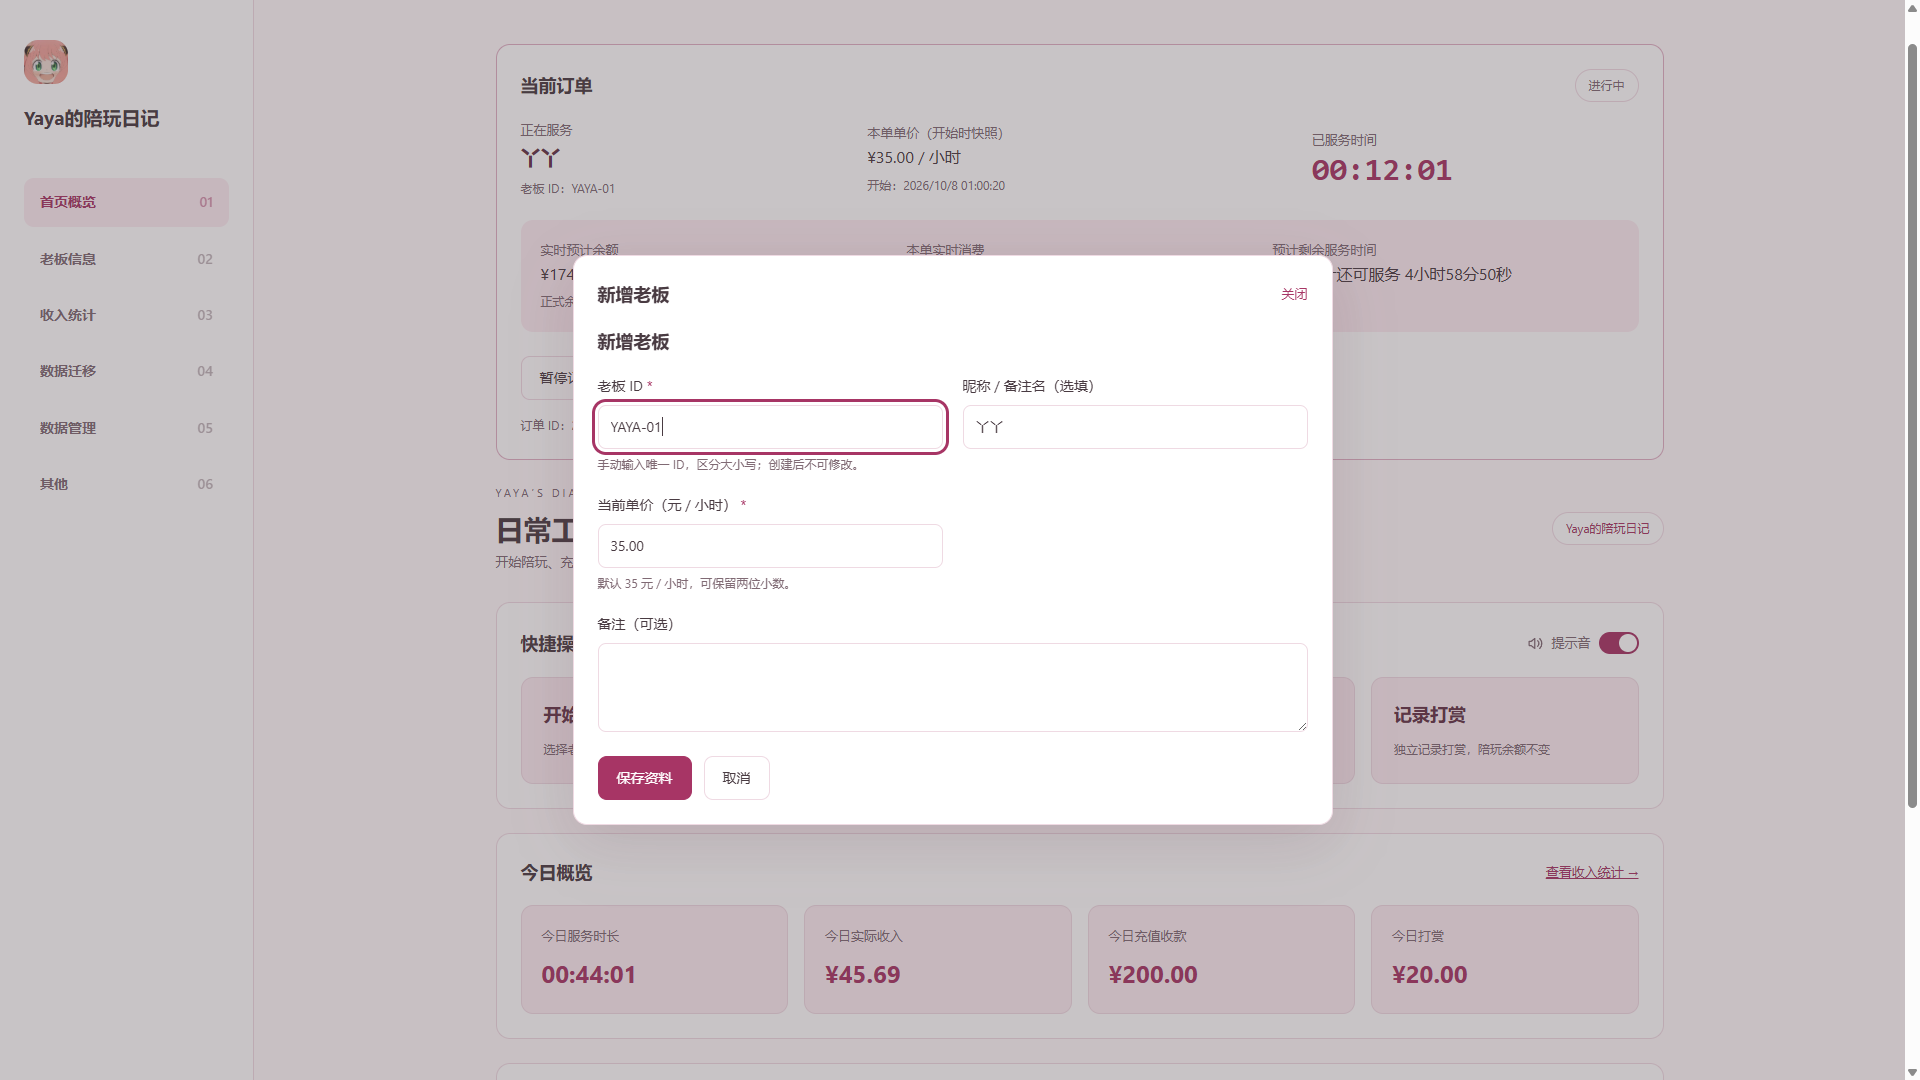
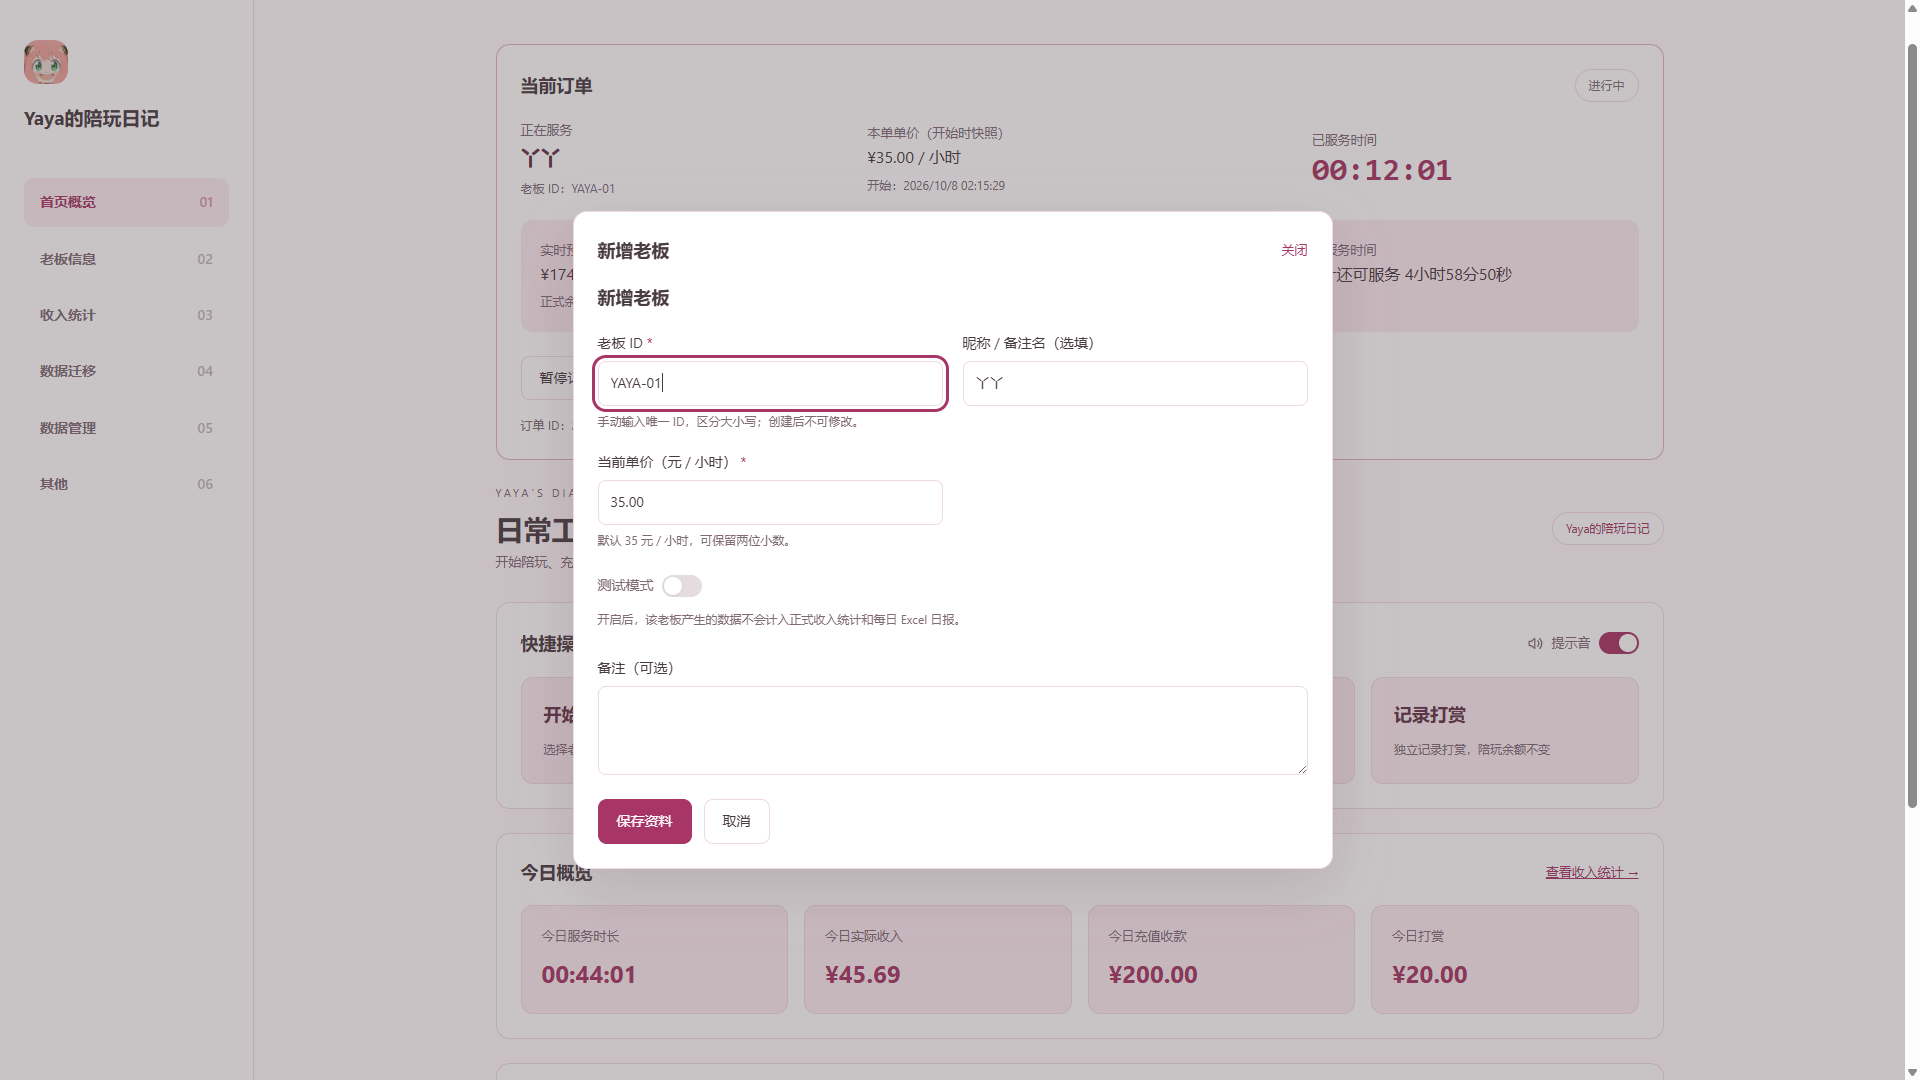
chore: release v1.2.1

diff --git a/src/components/layout/AppLayout.tsx b/src/components/layout/AppLayout.tsx
@@ -13,7 +13,7 @@ export function AppLayout({ children, page }: { children: ReactNode; page: strin
           <a className="nav-link" href="#data" aria-current={page === 'data' ? 'page' : undefined}>数据管理 <span>05</span></a>
           <a className="nav-link" href="#other" aria-current={page === 'other' ? 'page' : undefined}>其他 <span>06</span></a>
         </nav>
-        <div className="sidebar-note">本地单用户应用<br />陪玩日记 · 1.2.0</div>
+        <div className="sidebar-note">本地单用户应用<br />陪玩日记 · 1.2.1</div>
       </aside>
       <main id={page} className="main-content">{children}</main>
     </div>

diff --git a/website/src/config.js b/website/src/config.js
@@ -1,6 +1,6 @@
 import { defaultRepository, githubDeployment } from '../deployment.js'
 // 网站展示与下载版本集中配置；不会修改 Electron 应用版本。
-const version = '1.2.0'
+const version = '1.2.1'
 const repository = import.meta.env.VITE_GITHUB_REPOSITORY || (import.meta.env.PROD ? defaultRepository : '')
 const release = githubDeployment(repository, version)
 // GitHub Pages 构建使用 Release；本地未指定仓库时保留原本下载。

diff --git a/README.md b/README.md
@@ -1,6 +1,6 @@
 # Yaya的陪玩日记
 
-## 当前发布版本：1.2.0
+## 当前发布版本：1.2.1
 
 日常使用和开发验证的推荐运行方式：
 
@@ -10,16 +10,19 @@ pnpm electron:local:formal
 
 该命令构建本地页面并通过现有 Electron 运行环境启动 SQLite 正式模式，不需要 Vite localhost。正式数据库位于 `%APPDATA%\Yaya-companion-manager\sqlite\yaya-companion.db`，独立于源码和程序目录。数据库、依赖、构建产物和发布包不属于 Git 备份；请在“数据管理”中单独备份账目。
 
-当前安装包及 Portable 未签名 EXE 可能被 Windows 11 Smart App Control / Code Integrity 阻止。当前阶段暂停安装逻辑、Portable 发布、安全策略与代码签名工作，以源码开发运行方式为主。下文相关发布与失败验收说明为历史记录。
+当前安装包及 Portable 未签名 EXE 可能被 Windows 11 Smart App Control / Code Integrity 阻止。本版本提供 Portable ZIP，同时保留源码开发运行方式；暂不处理安装逻辑、安全策略和代码签名。下文相关发布与失败验收说明为历史记录。
 
 完整检查：`pnpm test`、`pnpm lint`、`pnpm build`、`pnpm electron:test`。Electron 集成检查使用隔离测试数据库验证正式模式、备份恢复和刷新持久化，不操作正式业务数据。只读检查正式库可运行 `node scripts/check-formal-database.mjs`；该脚本不创建、迁移或修改数据库。
 
-后续开发以 `v1.2.0` 为基线；此前的 `v1.1.2-stable` 保留作为历史基线。本轮只整理版本与文档，不重新生成 Squirrel 安装包或 Portable。
+后续开发以 `v1.2.1` 为基线；此前的 `v1.1.2-stable` 保留作为历史基线。本次重新生成 v1.2.1 Portable，不生成 Squirrel 安装包。
 
-React + TypeScript + Vite 本地单用户 Windows 应用，支持浏览器与 Electron 桌面运行，当前版本 1.2.0。
-已完成老板资料、余额充值/调整、只读余额流水、订单生命周期、计时、结束订单一次性结算、打赏和今日/本周/本月统计。开发时保留三种独立数据源；Windows 安装版默认使用 SQLite 正式库，首次启动创建空库。已有旧资料需要自行导出并在“数据迁移”校验后导入，原资料不会被删除。以下阶段记录属于历史资料；当前计费遵循 1.1.0 的结束时一次性结算规则，提示音和历史展示以本页 1.2.0 说明为准。
+React + TypeScript + Vite 本地单用户 Windows 应用，支持浏览器与 Electron 桌面运行，当前版本 1.2.1。
+已完成老板资料、余额充值/调整、只读余额流水、订单生命周期、计时、结束订单一次性结算、打赏和今日/本周/本月统计。开发时保留三种独立数据源；Windows 安装版默认使用 SQLite 正式库，首次启动创建空库。已有旧资料需要自行导出并在“数据迁移”校验后导入，原资料不会被删除。以下阶段记录属于历史资料；当前计费遵循 1.1.0 的结束时一次性结算规则，提示音和历史展示以本页 1.2.1 说明为准。
 
-### v1.2.0 主要变化
+### v1.2.1 主要变化
+
+- 新增测试模式：完整体验业务，数据排除正式统计和 Excel；产生业务记录后锁定模式。旧资料升级默认正式模式，数据库 schema 5。
+- “其他”页面提供两次确认清空测试数据，以及三次确认 Portable 应用内卸载。卸载最终确认会删除程序与本机资料，请先备份。
 
 - 余额预计剩余时间首次进入5分钟以内时播放本地语音；预计余额归零时播放另一段语音。暂停不触发，刷新或重启不补播历史提醒，充值恢复后可再次提醒。
 - 首页“快捷操作”右上角提供提示音总开关，设置持久化；静音仍保留文字提示，计时和结算不受影响。
@@ -38,7 +41,7 @@ React + TypeScript + Vite 本地单用户 Windows 应用，支持浏览器与 El
 
 自动备份目录独立保存 `auto-backup-state.json`；日报文件名为 `YayaDiary-YYYY-MM-DD.xlsx`。可在“数据管理”备份、恢复或打开导出目录。安装包与 Portable 仍可能被 Windows Smart App Control / Code Integrity 阻止，暂未处理代码签名，不降低 Windows 安全策略。
 
-v1.2.0 最终检查：159项自动测试、lint、build，以及 Electron 隔离集成检查；测试不使用正式用户数据库。
+v1.2.1 最终检查：187项自动测试、lint、build，以及 Electron 隔离集成检查；测试不使用正式用户数据库。
 
 ## 启动与检查
 

diff --git a/website/README.md b/website/README.md
@@ -50,14 +50,14 @@ workflow 路径：.github/workflows/website-pages.yml。仅在默认分支的 we
 
 ## Release asset 下载
 
-本阶段没有上传任何 ZIP。必须先确保 GitHub 已存在 v1.2.0 tag，再在 Releases → Draft a new release 中选择现有 v1.2.0 tag，不要移动或重建 tag。
+本阶段没有上传任何 ZIP。必须先确保 GitHub 已存在 v1.2.1 tag，再在 Releases → Draft a new release 中选择现有 v1.2.1 tag，不要移动或重建 tag。
 
-将经过验收的 YayaDiary-1.2.0-Portable.zip 作为 asset 手动上传，再 Publish release。文件应保持该名称，大小与 SHA256 建议再次核对。
+将经过验收的 YayaDiary-1.2.1-Portable.zip 作为 asset 手动上传，再 Publish release。文件应保持该名称，大小与 SHA256 建议再次核对。
 
 Actions 构建后的下载目标为：
 
 ```text
-https://github.com/EntroFr/Yaya-companion-manager/releases/download/v1.2.0/YayaDiary-1.2.0-Portable.zip
+https://github.com/EntroFr/Yaya-companion-manager/releases/download/v1.2.1/YayaDiary-1.2.1-Portable.zip
 ```
 
 只有 Release 已发布且文件上传成功，下载才可用。不要上传至 Git 仓库，ZIP 继续被忽略。公开官网供用户下载时，Release asset 也应能匿名访问。
